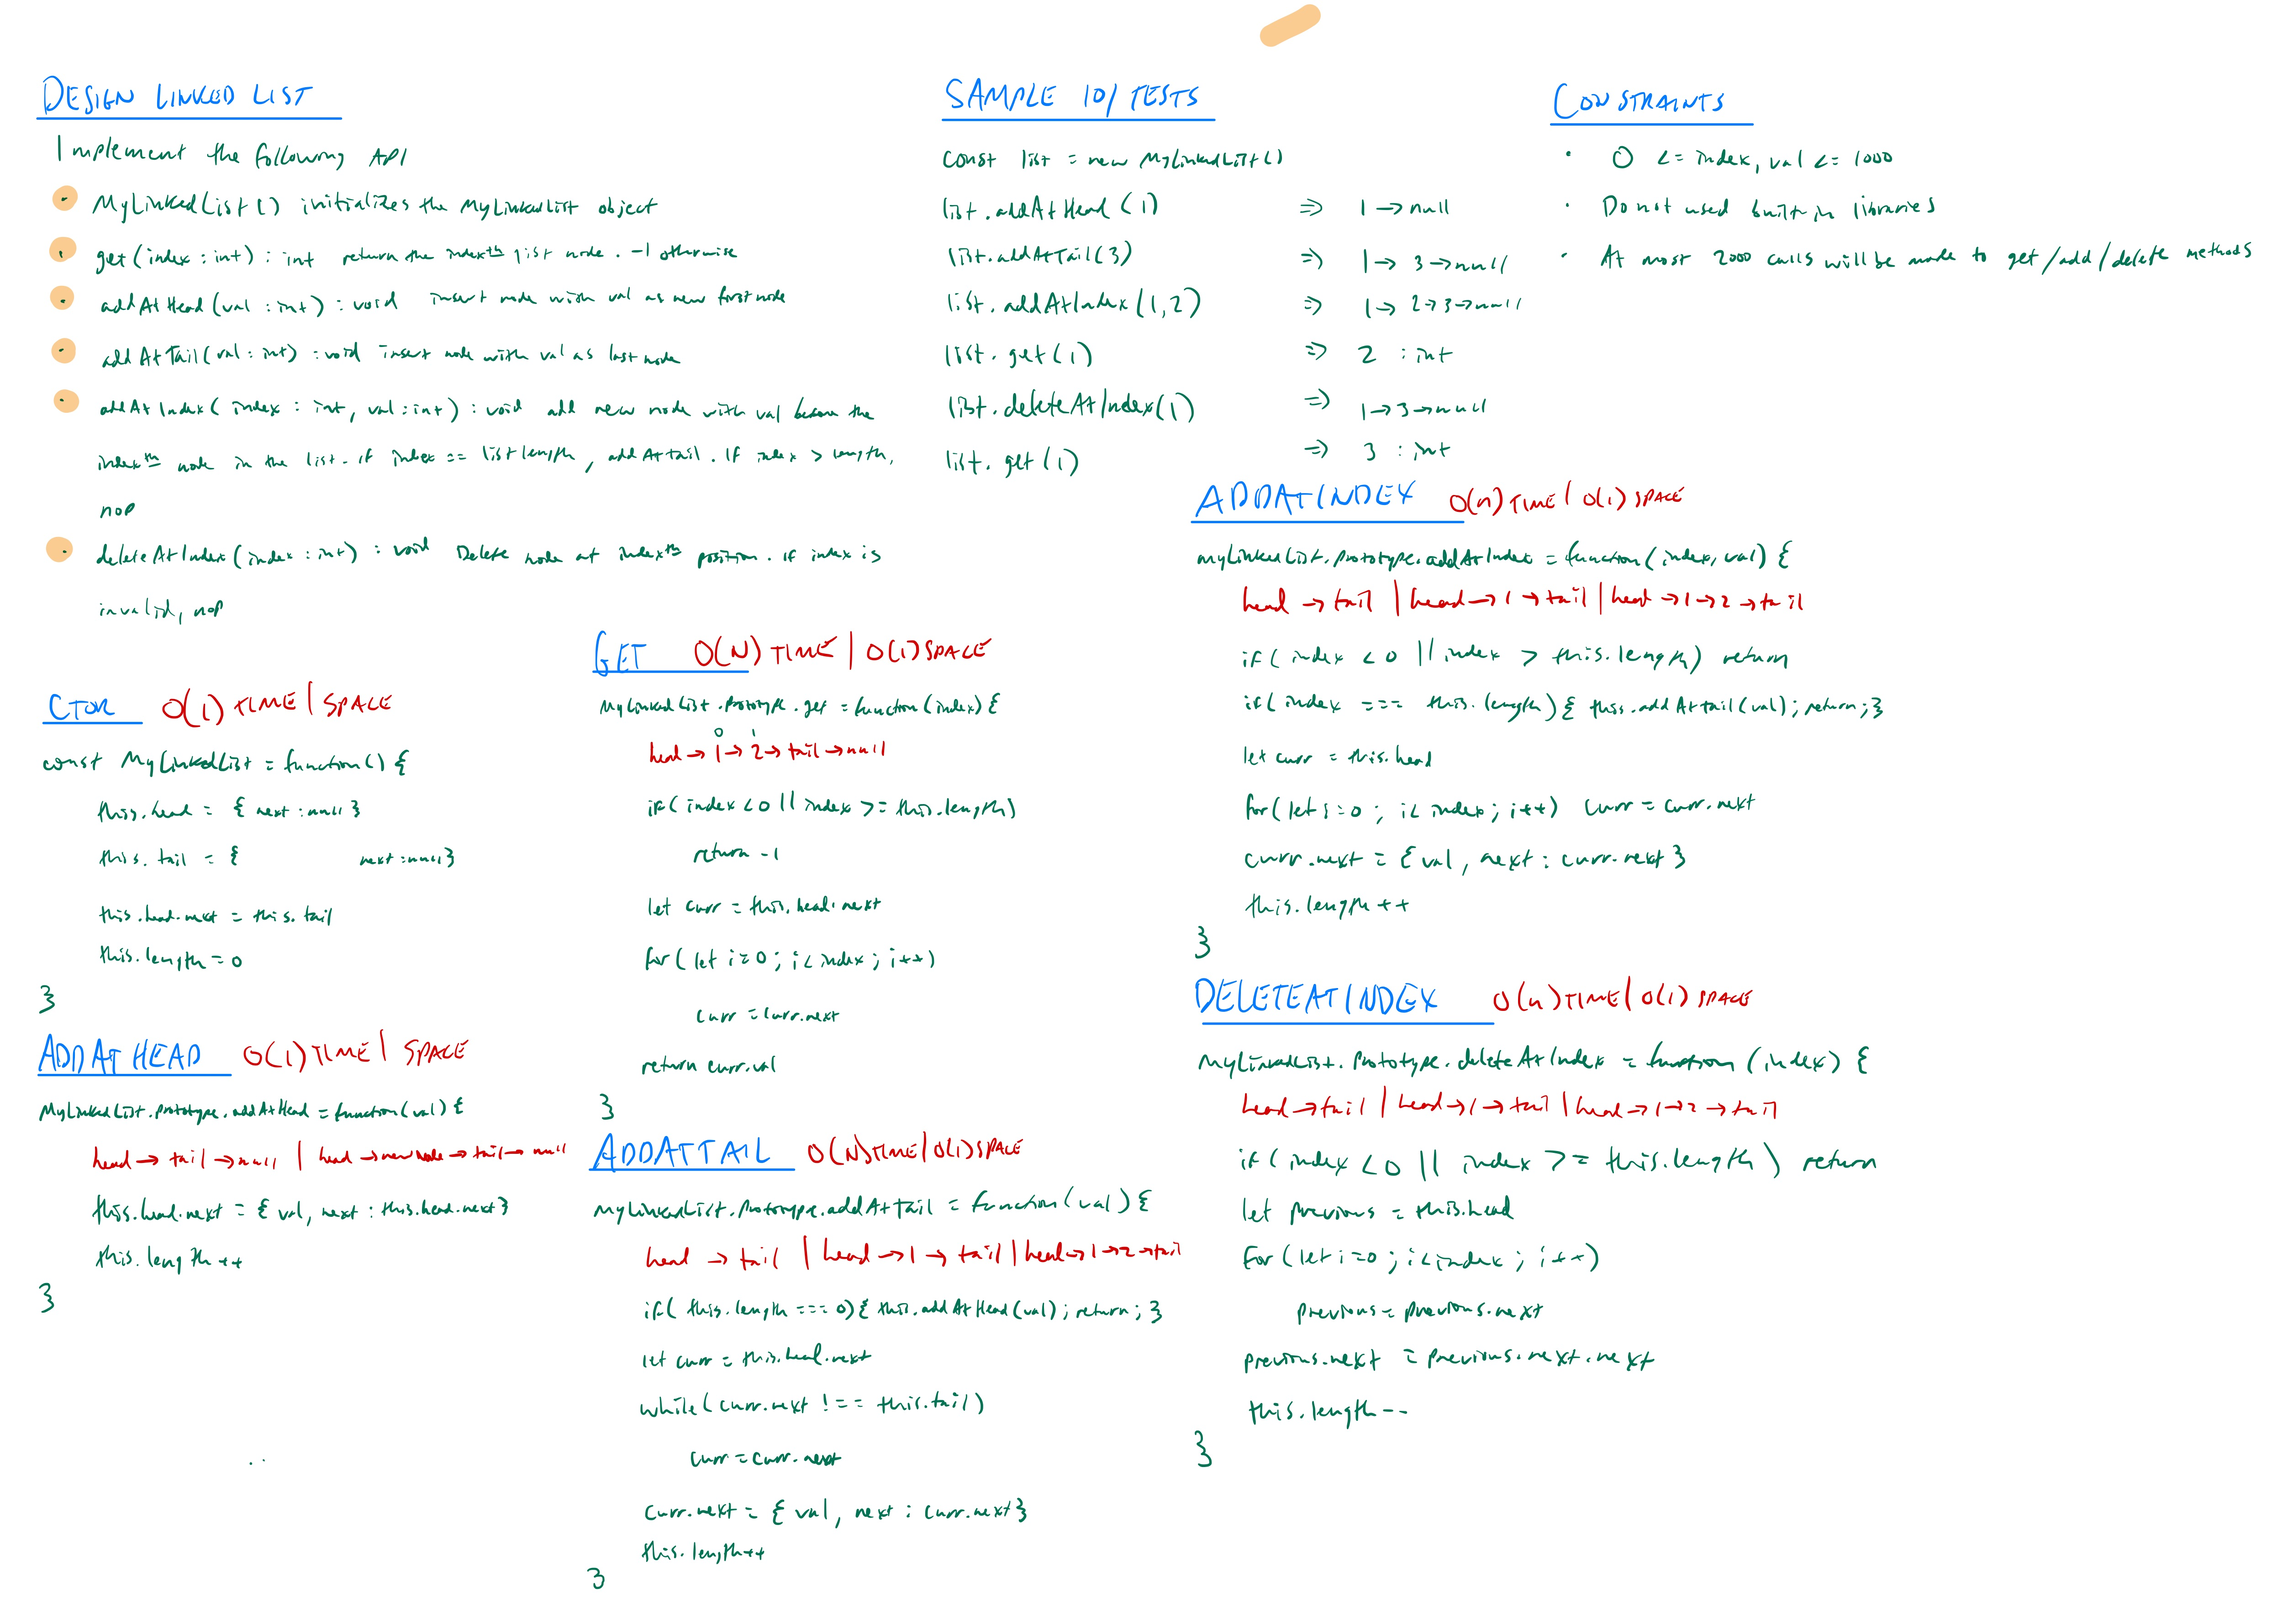
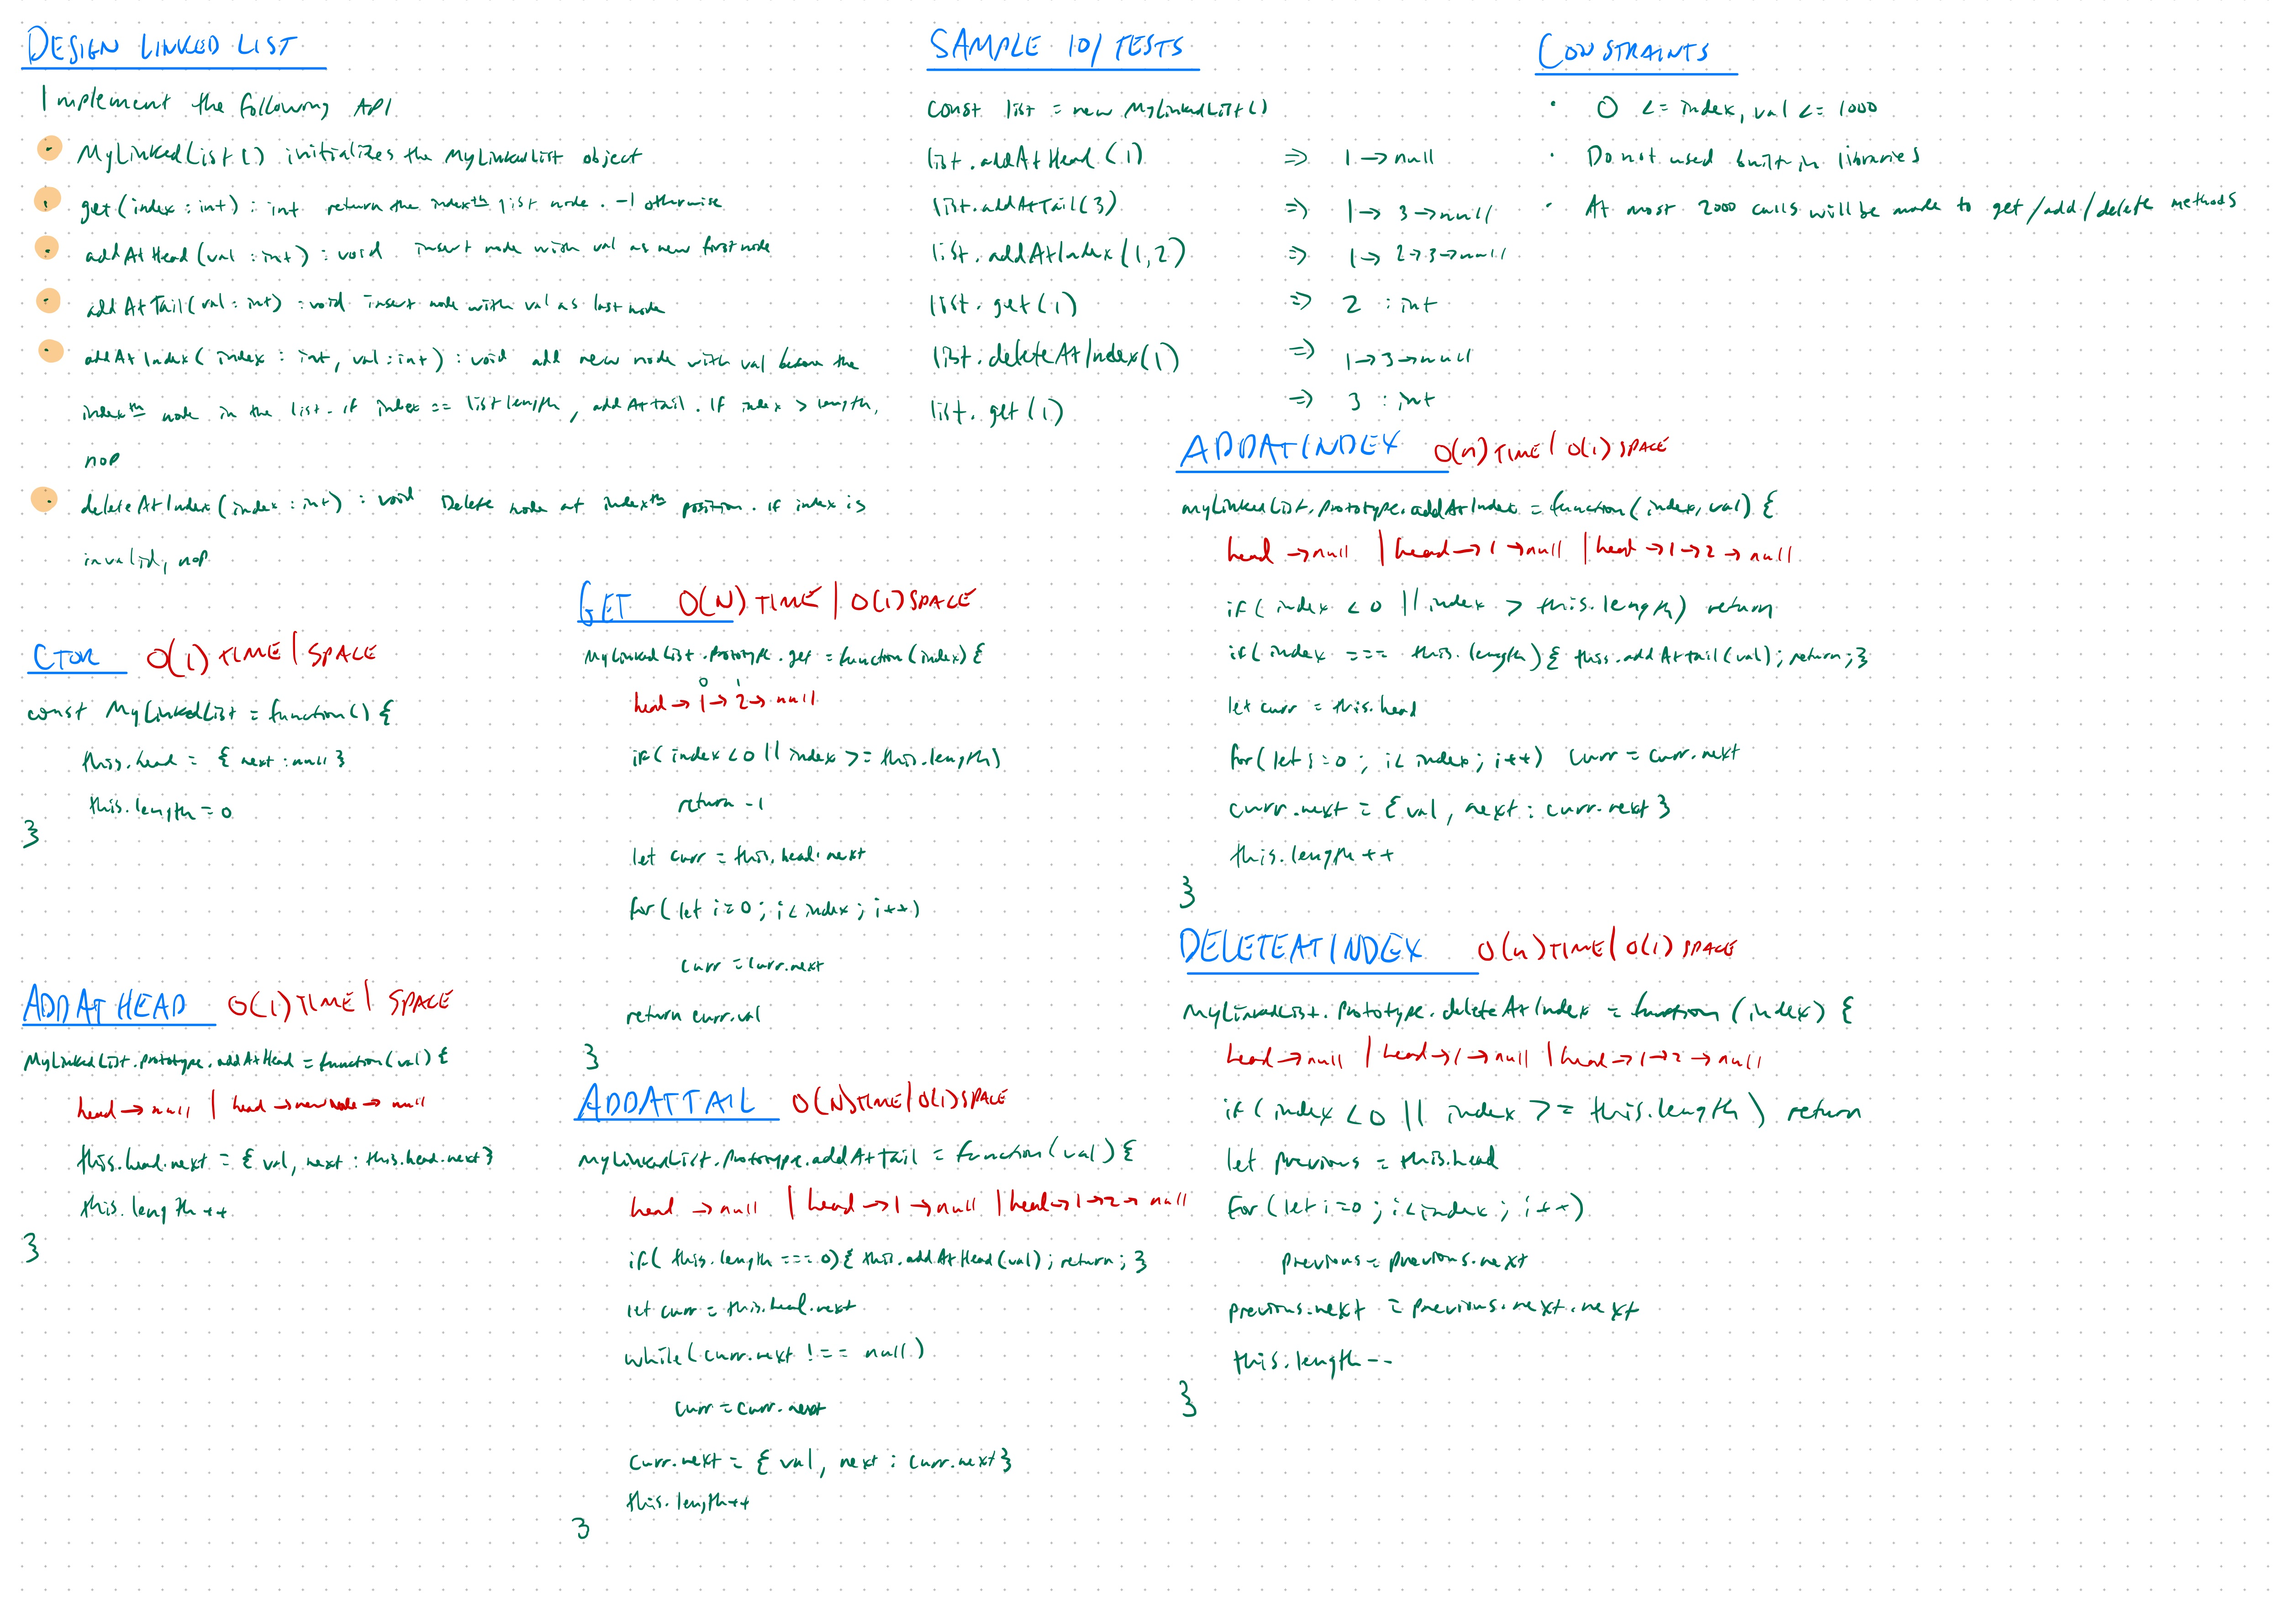
Update: Design Linked List
Summary:
	- Removed tail property from class.
	- Replaced references to null.
	- Tail is unnecessary for singly-linked list.

diff --git a/js/ds-challenges/design-linked-list/__tests__/MyLinkedList.tests.js b/js/ds-challenges/design-linked-list/__tests__/MyLinkedList.tests.js
@@ -13,7 +13,7 @@ describe('MyLinkedList', function () {
 
     list.addAtHead(123);
     expect(list.head.next.val).toEqual(123);
-    expect(list.head.next.next).toEqual(list.tail);
+    expect(list.head.next.next).toEqual(null);
   });
 
   it('should return the indexth list node, -1 otherwise', function () {
@@ -50,18 +50,18 @@ describe('MyLinkedList', function () {
     expect(list.head.next.val).toEqual(123);
     expect(list.head.next.next.val).toEqual(0);
     expect(list.head.next.next.next.val).toEqual(456);
-    expect(list.head.next.next.next.next).toEqual(list.tail);
+    expect(list.head.next.next.next.next).toEqual(null);
   });
 
   it('should delete indexth node from list if index is valid', function () {
     const list = new MyLinkedList();
 
     list.deleteAtIndex(0);
-    expect(list.head.next).toEqual(list.tail);
+    expect(list.head.next).toEqual(null);
 
     list.addAtHead(123);
     list.deleteAtIndex(0);
-    expect(list.head.next).toEqual(list.tail);
+    expect(list.head.next).toEqual(null);
 
     list.addAtIndex(0, 123);
     list.addAtIndex(1, 0);
@@ -69,6 +69,6 @@ describe('MyLinkedList', function () {
     list.deleteAtIndex(1);
     expect(list.head.next.val).toEqual(123);
     expect(list.head.next.next.val).toEqual(456);
-    expect(list.head.next.next.next).toEqual(list.tail);
+    expect(list.head.next.next.next).toEqual(null);
   });
 });

diff --git a/js/ds-challenges/design-linked-list/MyLinkedList.js b/js/ds-challenges/design-linked-list/MyLinkedList.js
@@ -1,10 +1,7 @@
 class MyLinkedList {
   constructor() {
     this.head = {next: null};
-    this.tail = {next: null};
     this.length = 0;
-
-    this.head.next = this.tail;
   }
 
   /**
@@ -44,7 +41,7 @@ class MyLinkedList {
     }
 
     let curr = this.head.next;
-    while (curr.next !== this.tail) {
+    while (curr.next !== null) {
       curr = curr.next;
     }
 
